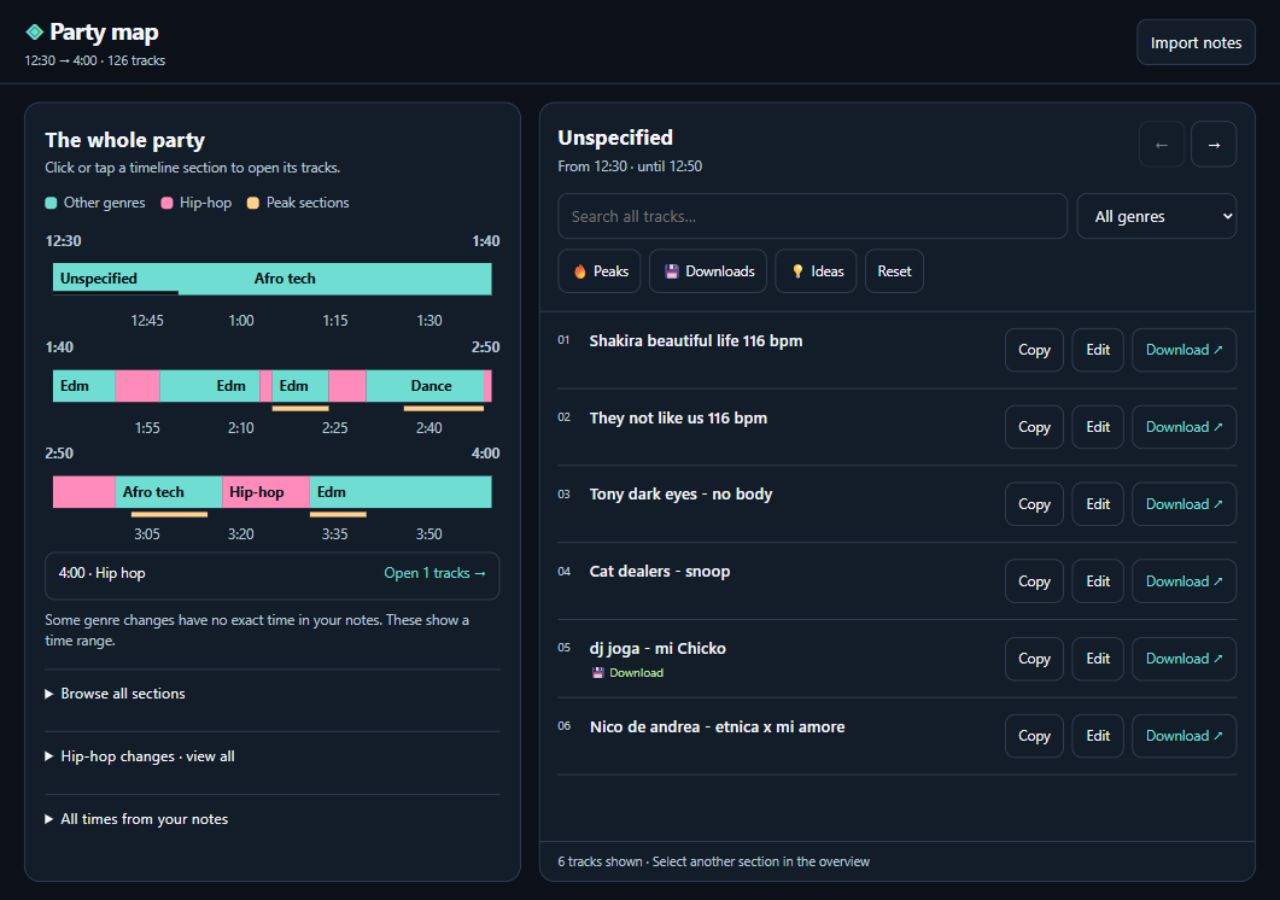
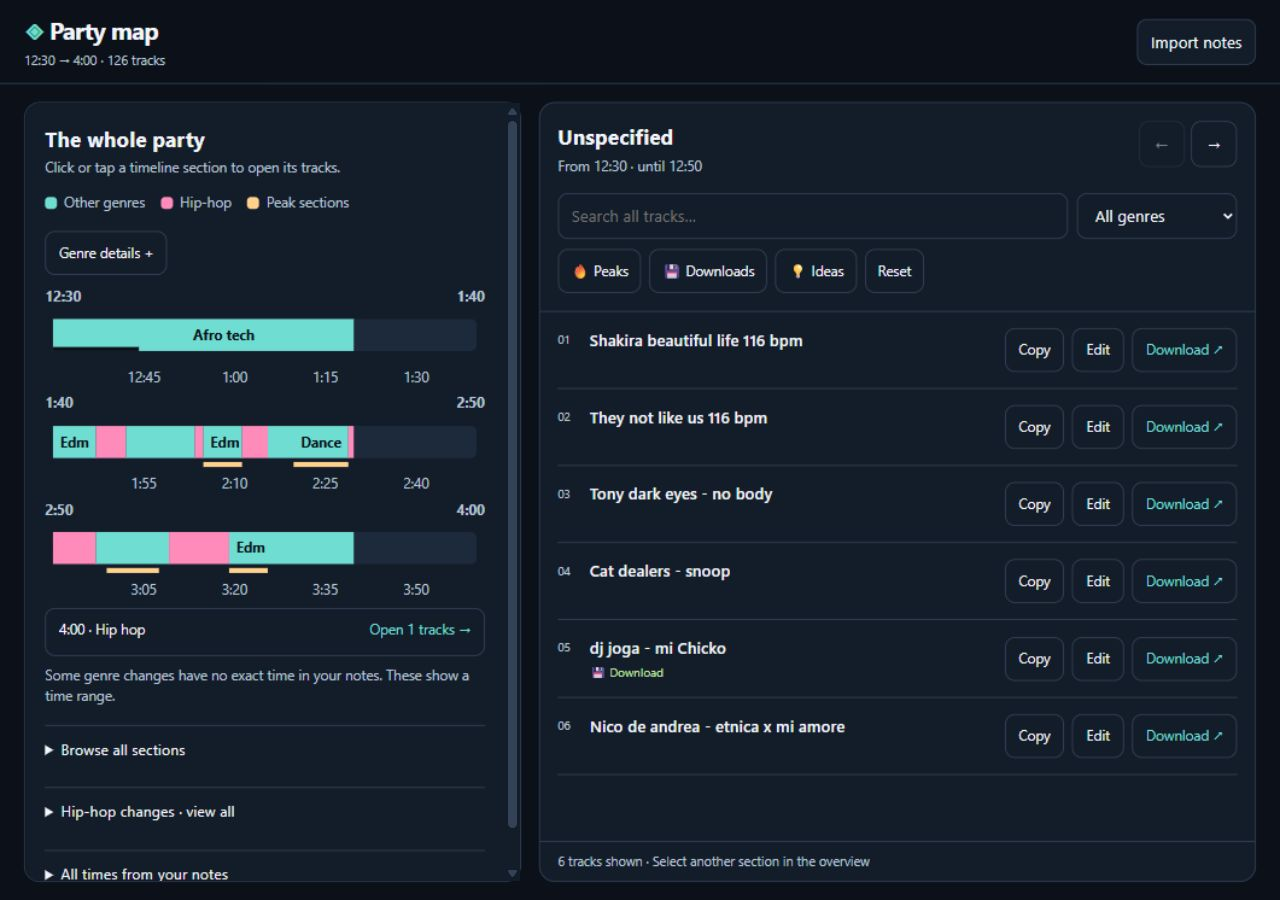
Expose narrow genre labels through readable timeline detail mode

Changed region(s): [[0.0312, 0.1244, 0.4062, 0.9333], [0.0312, 0.8089, 0.1875, 0.9333], [0.0312, 0.9644, 0.1875, 0.9956]]

diff --git a/src/views/PartyPage.svelte b/src/views/PartyPage.svelte
@@ -6,6 +6,7 @@
   export let active: boolean;
   export let select: (id: number, trackId?: number) => void;
   let mapWidth = 600;
+  let showGenres = false;
   $: diagramWidth = Math.max(220, mapWidth - 16);
   $: bands = timeBands(model);
   $: flow = overviewRuns(model);
@@ -24,6 +25,7 @@
     <span><i class="dot" style="--color:var(--hip)"></i>Hip-hop</span>
     <span><i class="dot" style="--color:var(--fire)"></i>Peak sections</span>
   </div>
+  <button class="genre-detail-toggle" aria-pressed={showGenres} onclick={() => showGenres = !showGenres}>Genre details {showGenres ? '−' : '+'}</button>
   <div id="map" bind:clientWidth={mapWidth}>
     {#each bands as band}
       <div class="map-row">
@@ -44,7 +46,7 @@
               <rect class="genre-fill" x={left} y="10" {width} height="32" fill="transparent" />
               {#if !active && selected === s.id}<rect class="selection-mark" x={left} y="38" {width} height="4" fill="var(--bg)" />{/if}
               <rect class="hit-area" x={left} y="4" {width} height="44" fill="transparent" />
-              {#if width > s.genre.length * 8 + 14}<text class="map-label" x={left + 7} y="31">{isHip(s.genre) ? 'Hip-hop' : s.genre}</text>{/if}
+              {#if !showGenres && width > s.genre.length * 8 + 14}<text class="map-label" x={left + 7} y="31">{isHip(s.genre) ? 'Hip-hop' : s.genre}</text>{/if}
             </g>
           {/each}
           {#each peaks.filter(t => t.end > band.start && t.start < band.end) as t}
@@ -54,6 +56,11 @@
             <text class="tick" x={x(time, band.start, band.end)} y="73" text-anchor="middle">{clock(time)}</text>
           {/each}
         </svg>
+        {#if showGenres}<div class="genre-captions" aria-label={`Genre details from ${clock(band.start)} to ${clock(band.end)}`}>
+          {#each model.sections.filter(s => s.end > band.start && s.start < band.end) as s}
+            <span><strong>{isHip(s.genre) ? 'Hip-hop' : s.genre}</strong><span dir="ltr">{boundary(s).replace(' · exact time not noted', '')}{s.exact ? '' : ' · time range'}</span></span>
+          {/each}
+        </div>{/if}
       </div>
     {:else}
       <p class="note">No timed flow yet. Open a section below to browse your tracks.</p>

diff --git a/tests/browser/planner.spec.ts b/tests/browser/planner.spec.ts
@@ -12,6 +12,13 @@ test('map, final section, keyboard selection and large controls', async ({ page 
   await expect(page.getByLabel('Choose a time & genre section')).toHaveCount(0);
   await expect(page.locator('.selected-card')).toHaveCount(0);
   await expect(page.locator('.map-row').first().locator('.flow-band')).toHaveCount(1);
+  await page.getByRole('button', { name: 'Genre details +', exact: true }).click();
+  const captions = page.locator('.map-row').first().locator('.genre-captions');
+  await expect(captions).toContainText('House');
+  await expect(captions).toContainText('1:30');
+  await expect(captions).toContainText('Edm');
+  await expect(captions).toContainText('1:30–1:40 · time range');
+  await page.getByRole('button', { name: 'Genre details −', exact: true }).click();
   const final = page.getByRole('button', { name: 'Hip hop, 4:00, open 1 tracks', exact: true });
   await final.scrollIntoViewIfNeeded(); await final.focus(); await final.press('Enter');
   await expect(page.locator('#detail-title')).toHaveText('Hip hop');

diff --git a/src/styles/app.css b/src/styles/app.css
@@ -160,6 +160,20 @@ main{
   font-weight:650;
   pointer-events:none
 }
+.genre-captions{
+  display:flex;
+  flex-wrap:wrap;
+  column-gap:16px;
+  row-gap:6px;
+  margin-block:4px 12px;
+  color:var(--muted);
+  font-size:14px;
+  line-height:1.5;
+}
+.genre-detail-toggle{margin-block-end:12px;font-size:14px;min-height:44px}
+.genre-captions:empty{display:none}
+.genre-captions>span{display:inline-flex;flex-wrap:wrap;gap:6px}
+.genre-captions strong{font-weight:600;color:var(--text)}
 .note{
   font-size:14px;
   color:var(--muted);

diff --git a/docs/verification.md b/docs/verification.md
@@ -14,7 +14,7 @@ Completed stories: E7-S1–S4, E1-S1–S2, E5-S1. The migrated source preserves 
 - Browser coverage includes import/cancel/invalid input, `.txt` files, edit/save/reload, multilingual names, combined filters, corrected Google links, final-section Enter/Space activation, rapid-switch button alternatives, hostile text rendering, corrupt imported data, storage denial, clipboard fallback success, and clipboard failure feedback.
 - Offline contexts disable networking. Request observation across every workflow reports no network or sibling assets; only the HTML document itself is requested. No app page errors were observed.
 - The 4:00 Hip hop end marker opens `Me pregunto` without inventing an ending time. Every section has a separate full-size button in **Browse all sections**; rapid switches at 2:07–2:15 and 3:49–3:56 are covered without stretching the diagram.
[2 lines of base64/hex data omitted]
 
 Bundled model: 126 tracks, 25 blocks, 26 sections, 42 downloads, 25 peaks, 2 ideas. Existing imported-note and correction keys are preserved; scoped title corrections reload correctly.
 
@@ -27,3 +27,5 @@ Local Chromium tests establish behavior for this browser/runtime, not universal 
 GitHub Actions repeats installation, checks, builds, tests, and reproducibility and uploads the offline file. Its remote result is not inferred from local tests. No hosting deployment is configured.
 
 The structural validator is a packaging guard, not a general HTML security auditor; runtime request checks and untrusted-text browser tests complement it. Google link parameters are tested without performing a real audio download or navigating to Google.
+
+Genre detail mode is verified in all six browser projects: House at 1:30 and the subsequent EDM boundary in the 1:30–1:40 interval are rendered at readable size. The compact overview remains the default; the Genre details toggle reveals all section names and source boundaries. Updated screenshots were captured at settled phone/desktop viewports.

diff --git a/plan.md b/plan.md
@@ -70,6 +70,8 @@ No chart estimate becomes an exact source timestamp. Final sections use an expli
 
 The clickable timeline is the main navigation. The redundant time/genre dropdown and selected-section card are removed; **Browse all sections** is a collapsed fallback for short sections. Continuous teal/pink overview runs and amber peak runs render without internal divider seams. Detailed genres retain their individual click/keyboard targets and labels; selected sections use an underline, with an outline on hover/focus.
 
+The compact overview is the default. **Genre details** reveals every genre name and source time/range below each band, so narrow chart sections do not lose their names. This mode adds detail when requested instead of shrinking labels or expanding the default overview.
+
 Imports and corrections are untrusted text. Keep copy and Google search tied to the current title. Storage is scoped to the browser/origin, with session-only feedback when unavailable; legacy data remains compatible on the same origin.
 
 ## Milestones

diff --git a/backlog.md b/backlog.md
@@ -295,6 +295,8 @@ AC:
 
 Completed UX correction (2026-10-11): removed the redundant time/genre selector and selected-section card, kept a collapsed **Browse all sections** fallback, and rendered continuous overview/peak bands without internal dividers. Detailed genre selection and hip-hop boundaries remain intact. E8 stories below still track the broader refinement work.
 
+Additional correction: **Genre details** exposes all genre names and recorded times/ranges at readable size, including House/EDM in the 1:30 block. The compact overview remains the default; the expanded labels are verified in hosted/offline phone, desktop, and short-height tests.
+
 ### E8-S1 — Introduce coherent tokens and calm layout hierarchy · P1 · Todo
 
 As a DJ, I want a polished, aligned interface that stays readable and makes the music flow easy to scan.

diff --git a/README.md b/README.md
@@ -30,6 +30,7 @@ pnpm preview
 ## Features
 
 - Three-band party overview with clickable genre sections, pink hip-hop, and amber peaks.
+- **Genre details** reveals every section name and its recorded time or known range, including sections too narrow for a chart label.
 - Explicit final-section controls when an ending time is missing.
 - Clickable timeline navigation and a collapsed Browse all sections list with full-size buttons for brief switches.
 - Desktop overview beside a generous track pane; dedicated Party/Tracks views on phones.
